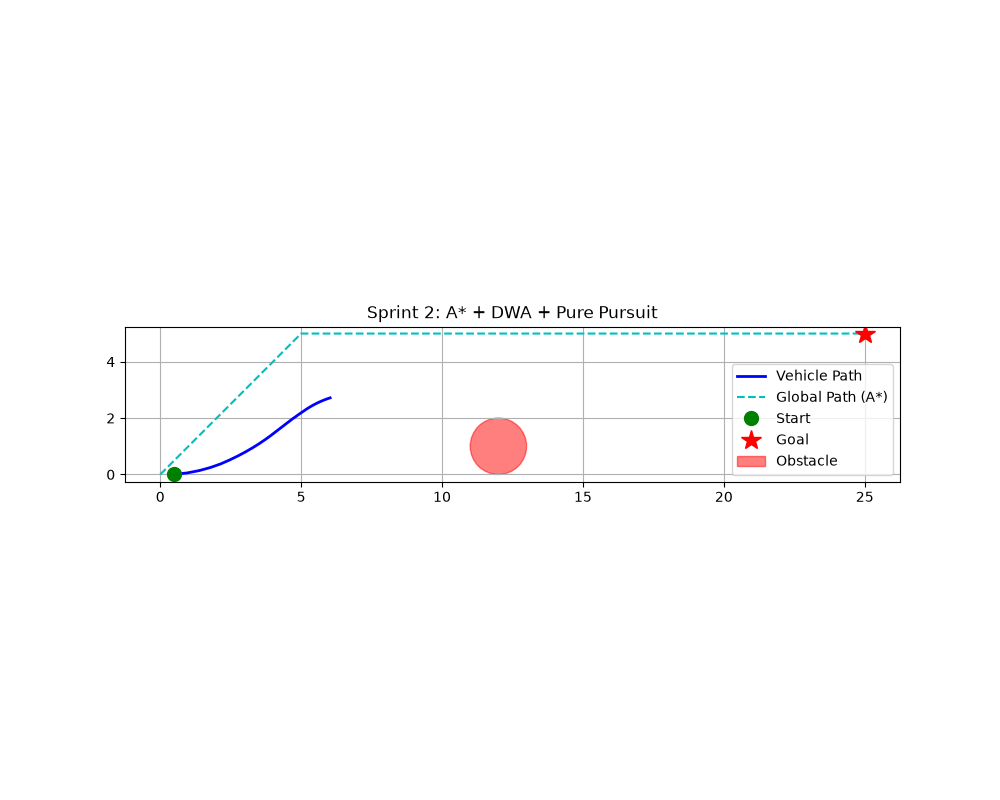
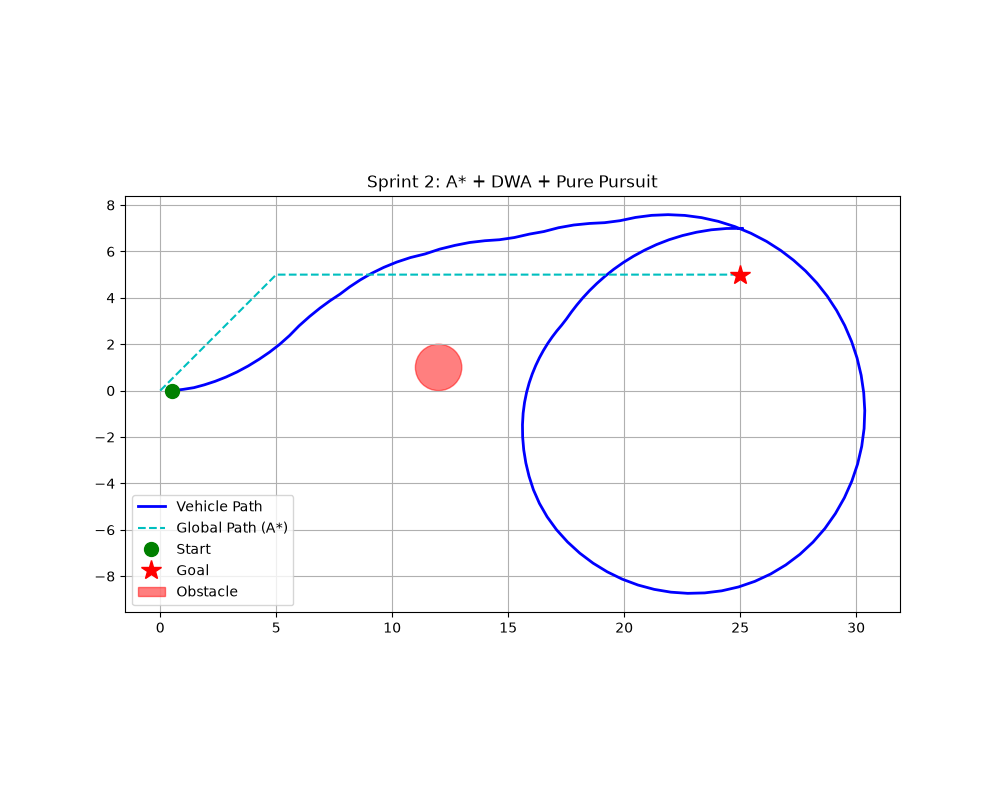
dwa

diff --git a/src/local_planner/algorithms/dwa.py b/src/local_planner/algorithms/dwa.py
@@ -94,13 +94,18 @@ class DynamicWindowApproach:
         hn, cn, vn = norm(heading_raw), norm(clear_raw), norm(vel_raw)
 
         best_idx, best_score = 0, -float("inf")
+        scores = []
         for i, c in enumerate(candidates):
             score = (
                 self.cfg.heading_weight * hn[i]
                 + self.cfg.clearance_weight * cn[i]
                 + self.cfg.velocity_weight * vn[i]
             )
-            if score > best_score:
-                best_score, best_idx = score, i
+            # Progress bias: standing still is only acceptable if everything
+            # moving is significantly worse (i.e., genuinely blocked).
+            if c.v < 0.3 and target_speed > 0.3:
+                score -= self.cfg.stall_penalty
+            scores.append(score)
 
+        best_idx = max(range(len(candidates)), key=lambda i: scores[i])
         return candidates[best_idx]

diff --git a/src/common/types/config.py b/src/common/types/config.py
@@ -35,11 +35,12 @@ class DWAConfig:
     dt: float = 0.1
     v_samples: int = 7
     yaw_rate_samples: int = 11
-    max_yaw_rate: float = 0.8
+    max_yaw_rate: float = 1.0
     heading_weight: float = 1.0
-    clearance_weight: float = 2.0
-    velocity_weight: float = 0.5
-    obstacle_margin: float = 1.5     # must be stricter than safety monitor
+    clearance_weight: float = 0.8     # was 2.0 — no longer dominates
+    velocity_weight: float = 1.0      # was 0.5 — progress matters
+    obstacle_margin: float = 1.5
     lookahead_m: float = 6.0
     arrival_radius_m: float = 2.0
-    clearance_cap_m: float = 5.0
+    clearance_cap_m: float = 3.0      # was 5.0 — saturate early so "far" == "far enough"
+    stall_penalty: float = 1.5        # NEW: penalty for standing still
